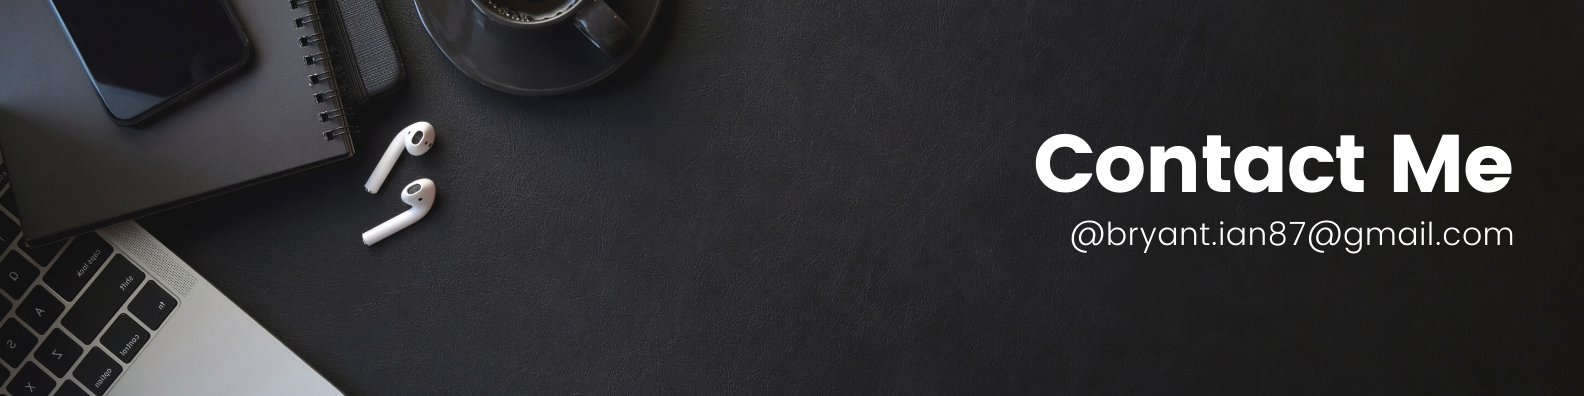
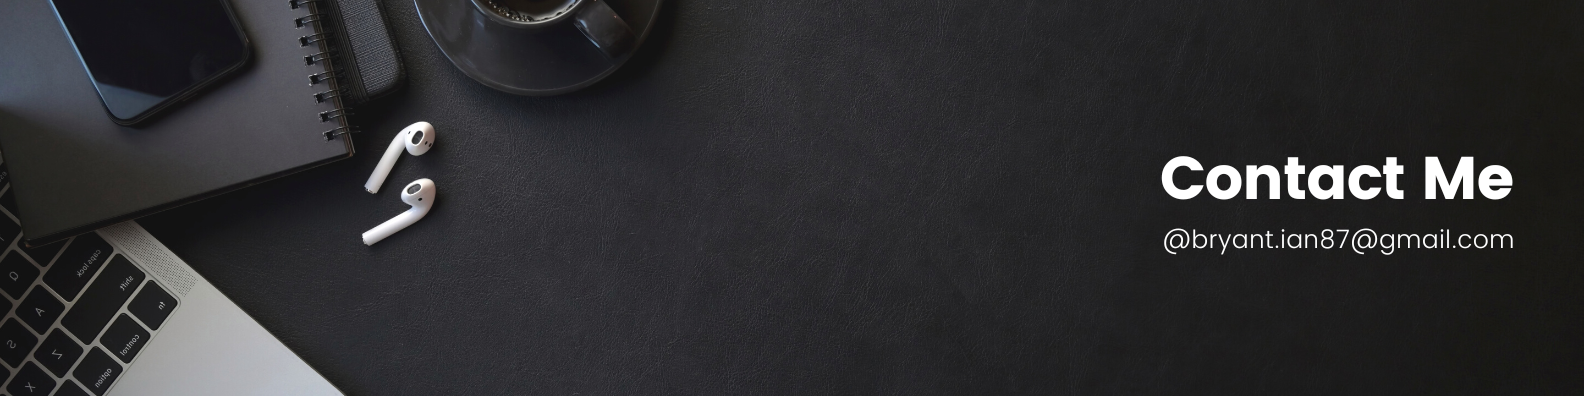
responsiveness

Changed region(s): [[0.6496, 0.3333, 0.959, 0.5152], [0.6806, 0.5455, 0.959, 0.6364]]

diff --git a/src/Components/Card/Card.js b/src/Components/Card/Card.js
@@ -1,5 +1,5 @@
 import React, { useState } from 'react';
-import './Card.css'; // You should create a CSS file for styling
+import './Card.css'; // Your CSS file for styling
 
 const Card = () => {
   const [isFlipped, setIsFlipped] = useState(false);
@@ -12,10 +12,16 @@ const Card = () => {
     <div className={`card ${isFlipped ? 'flipped' : ''}`} onClick={handleCardClick}>
       <div className="card-inner">
         <div className="card-front">
-          <img src={require("./Images/card-front.png")} alt="Card Front" />
+          <img
+            src={window.innerWidth > 768 ? require('./Images/card-front.png') : require('./Images/card-front-vert.png')}
+            alt="Card Front"
+          />
         </div>
         <div className="card-back">
-          <img src={require("./Images/card-back.png")} alt="Card Back" />
+          <img
+            src={window.innerWidth > 768 ? require('./Images/card-back.png') : require('./Images/card-back-vert.png')}
+            alt="Card Back"
+          />
         </div>
       </div>
     </div>

diff --git a/src/Components/Card/Card.css b/src/Components/Card/Card.css
@@ -1,18 +1,18 @@
 /* Card.css */
 .card {
-    width: 500px;
-    height: 800px;
-    perspective: 1000px;
-    cursor: pointer;
-    padding: auto;
-    margin: auto;
-  }
+  width: 500px; /* Desktop width */
+  height: 800px; /* Desktop height */
+  perspective: 1000px;
+  cursor: pointer;
+  margin: 0 auto;
+}
   
   .card-inner {
     width: 100%;
     height: 100%;
     transition: transform 0.5s;
     transform-style: preserve-3d;
+    margin-top: 20%;
   }
   
   .card.flipped .card-inner {
@@ -40,5 +40,12 @@
   
   .card-back {
     transform: rotateY(180deg);
+  }
+
+  @media (max-width: 768px) {
+    .card {
+      width: 300px; /* Mobile width */
+      height: 480px; /* Mobile height */
+    }
   }
   

diff --git a/src/Components/Home/Home.css b/src/Components/Home/Home.css
@@ -19,7 +19,7 @@
   transition: transform 0.2s;
   display: flex;
   align-items: center;
-  height: auto;
+  height: 150px;
 }
 
 .banner-content {
